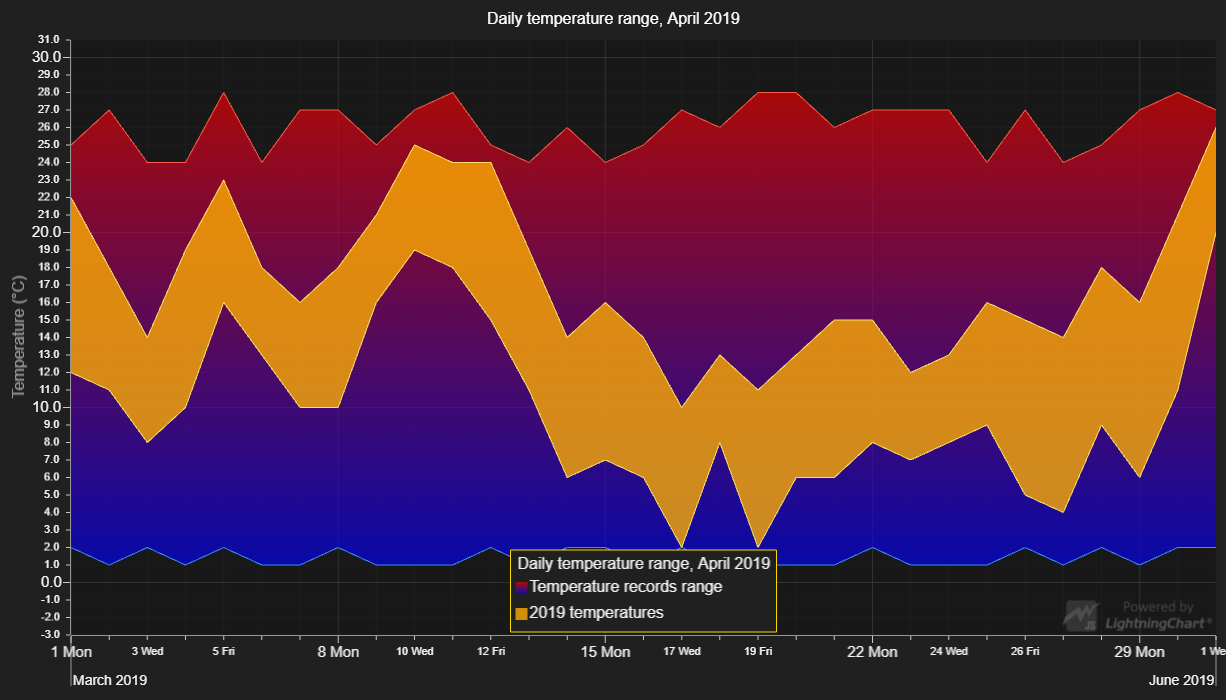
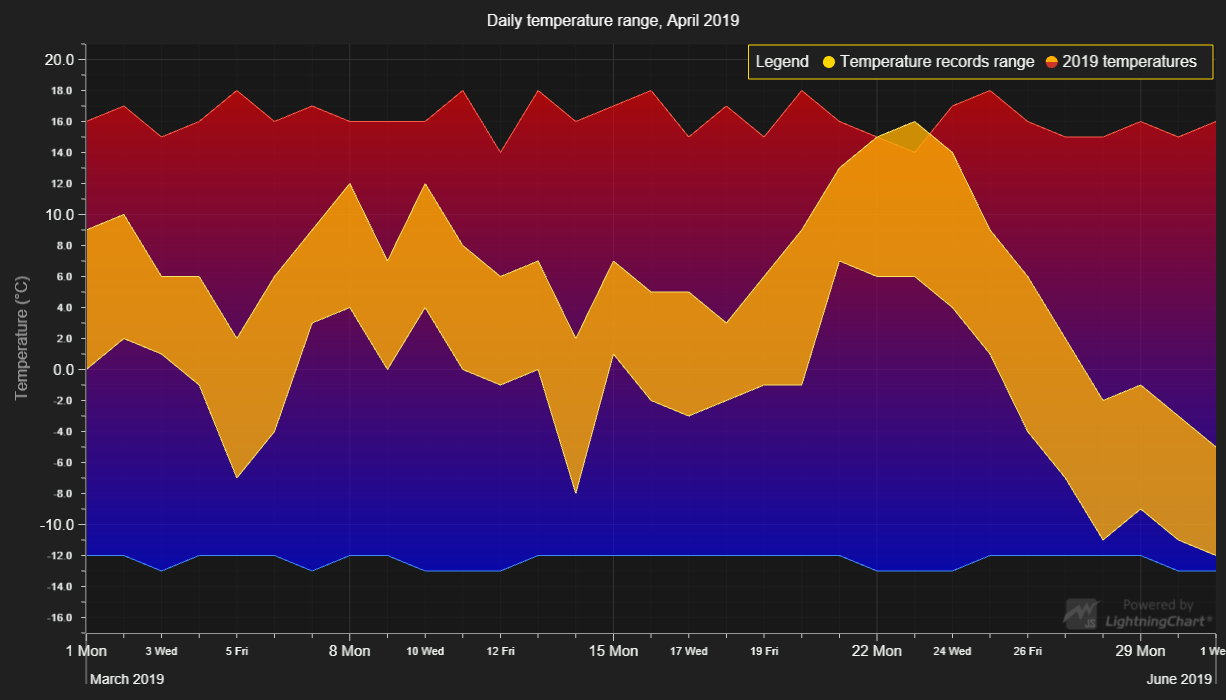
LCJS 3.0.0

Changed region(s): [[0.0, 0.03, 0.9918, 0.99], [0.4029, 0.0, 0.6199, 0.09]]

diff --git a/src/index.js b/src/index.js
@@ -77,7 +77,7 @@ currentRange
 
 // ----- Result tables settings
 // Record range
-recordRange.setResultTableFormatter((builder, series, figure, yMax, yMin) => {
+recordRange.setCursorResultTableFormatter((builder, series, figure, yMax, yMin) => {
     return builder
         .addRow('Temperature records range')
         .addRow('Date: ' + axisX.formatValue(figure))
@@ -85,7 +85,7 @@ recordRange.setResultTableFormatter((builder, series, figure, yMax, yMin) => {
         .addRow('Lowest: ' + yMin.toFixed(2) + ' °C')
 })
 // Current range
-currentRange.setResultTableFormatter((builder, series, figure, yMax, yMin) => {
+currentRange.setCursorResultTableFormatter((builder, series, figure, yMax, yMin) => {
     return builder
         .addRow('2019 temperatures')
         .addRow('Date: ' + axisX.formatValue(figure))
@@ -150,18 +150,6 @@ currentRangeData.forEach((point, i) => {
     currentRange.add({ position: (point.x * 24 * 60 * 60 * 1000), high: point.yMax, low: point.yMin })
 })
 // ----- Add legend box
-const legendBox = chart.addLegendBox(LegendBoxBuilders.HorizontalLegendBox, {
-    x: axisX.scale,
-    y: axisY.scale
-})
-    .setPosition({ x: currentRange.getXMax() / 2, y: axisY.scale.getInnerStart() })
-    .setOrigin(UIOrigins.CenterBottom)
-    .setMargin(3)
+const legendBox = chart.addLegendBox(LegendBoxBuilders.HorizontalLegendBox)
 
-const entries = legendBox.add(chart)
-entries[0]
-    .setButtonOnFillStyle(recordRangeFillStyle)
-    .setButtonOnStrokeStyle(emptyLine)
-entries[1]
-    .setButtonOnFillStyle(currentRangeFillStyle)
-    .setButtonOnStrokeStyle(emptyLine)
+legendBox.add(chart)

diff --git a/README.md b/README.md
@@ -87,7 +87,7 @@ Direct developer email support can be purchased through a [Support Plan][4] or b
 © Arction Ltd 2009-2020. All rights reserved.
 
 
-[XY cartesian chart]: https://www.arction.com/lightningchart-js-api-documentation/v2.2.0/classes/chartxy.html
-[Area point]: https://www.arction.com/lightningchart-js-api-documentation/v2.2.0/interfaces/areapoint.html
-[Area Range series]: https://www.arction.com/lightningchart-js-api-documentation/v2.2.0/classes/arearangeseries.html
+[XY cartesian chart]: https://www.arction.com/lightningchart-js-api-documentation/v3.0.0/classes/chartxy.html
+[Area point]: https://www.arction.com/lightningchart-js-api-documentation/v3.0.0/interfaces/areapoint.html
+[Area Range series]: https://www.arction.com/lightningchart-js-api-documentation/v3.0.0/classes/arearangeseries.html
 
